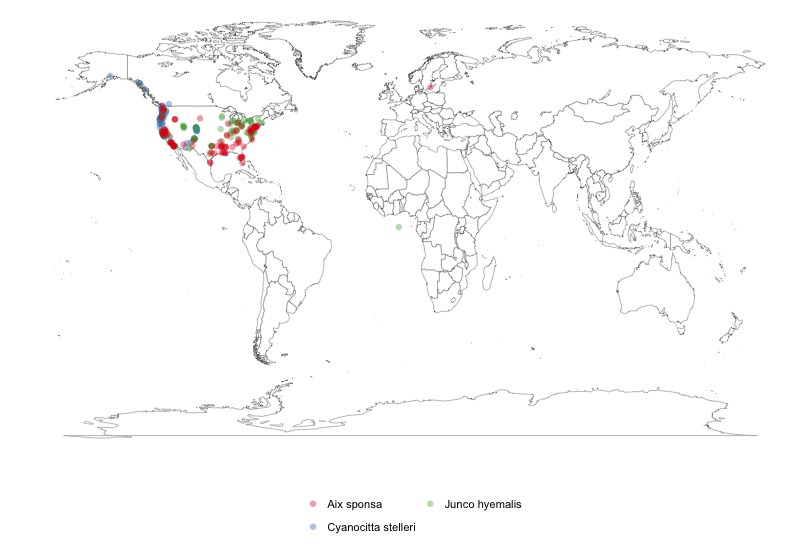
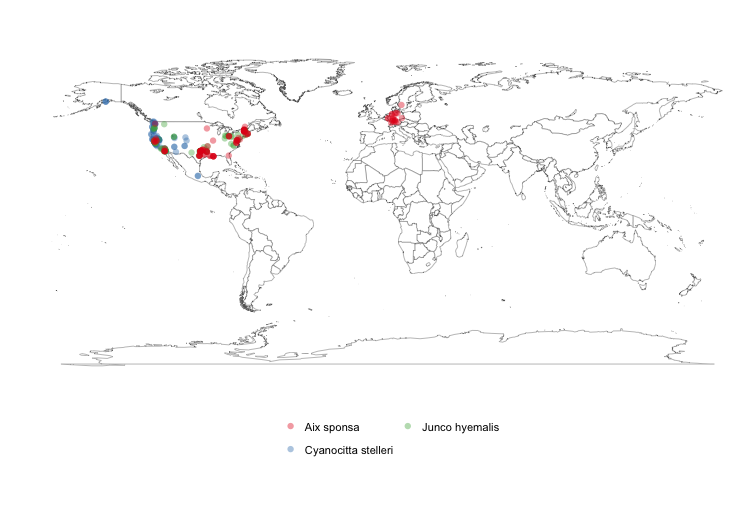
fixed map with 0,0 point in readme file #104

diff --git a/README.md b/README.md
@@ -176,7 +176,7 @@ datdf <- ldply(dat)
 gbifmap(datdf)
 ```
 
-![](inst/assets/img/gbifmap.png)
+![](inst/assets/img/gbifmap2.png)
 
 Please [report any issues or bugs](https://github.com/ropensci/rgbif/issues).
 
